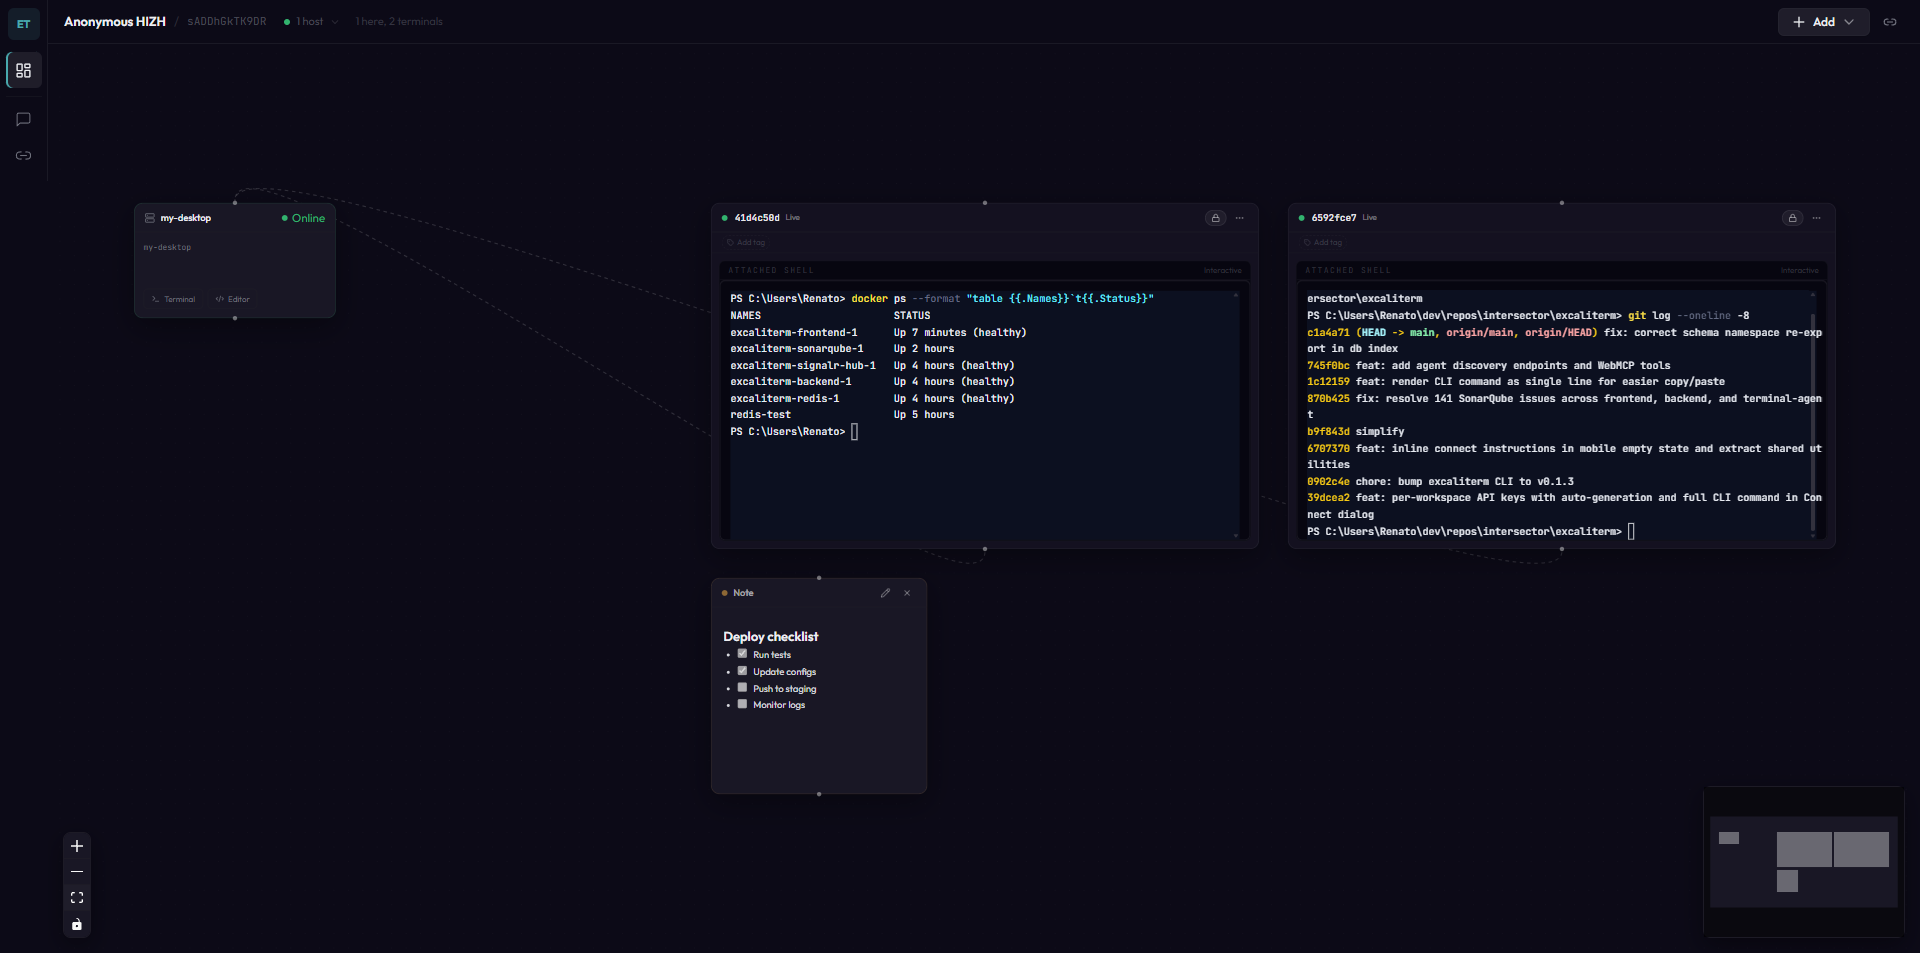
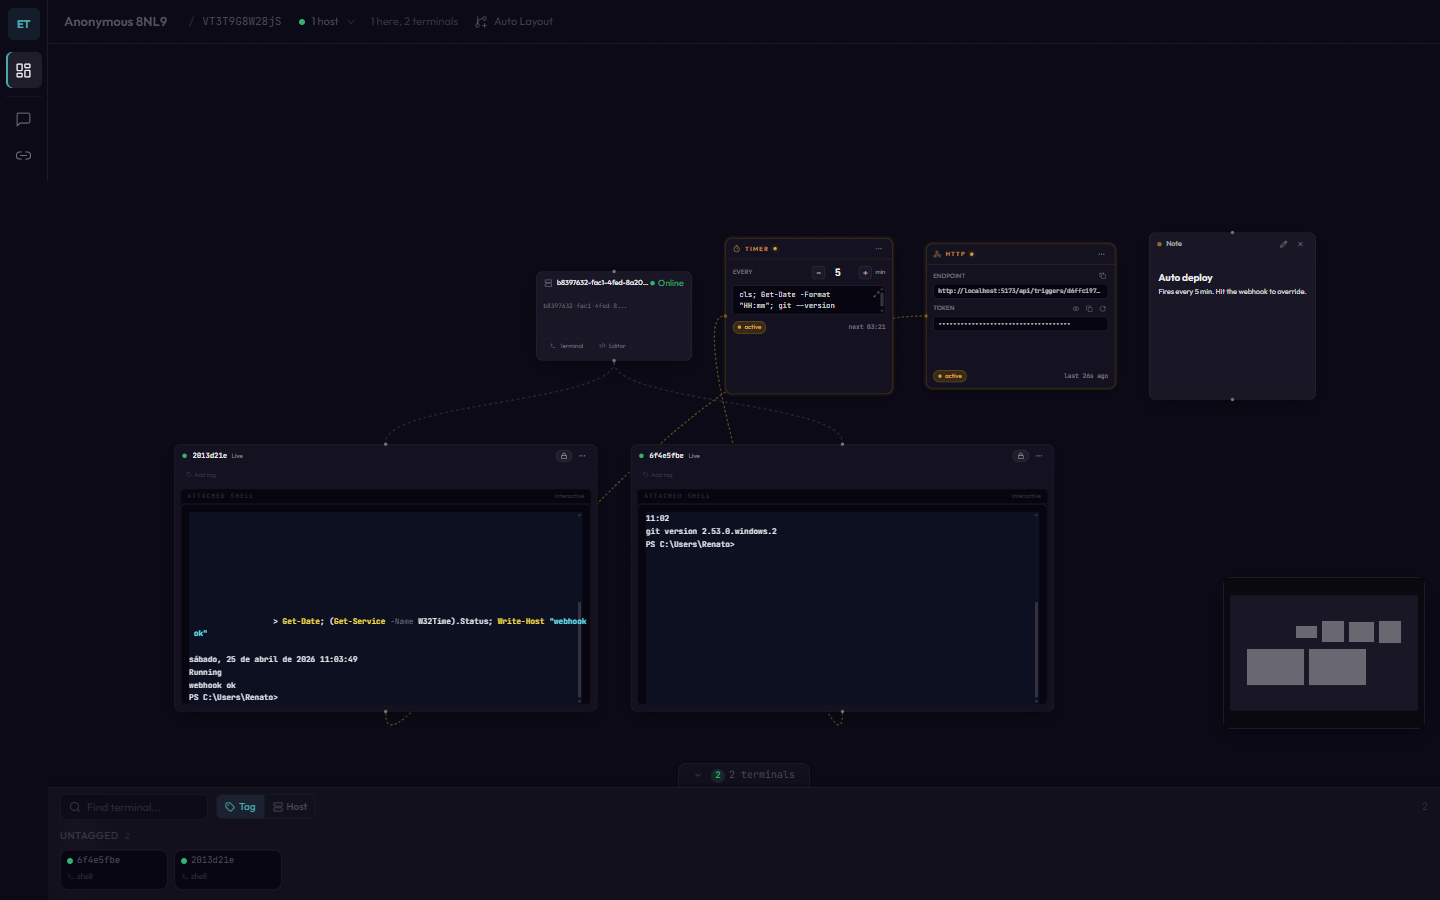
landing + docs: announce timer & HTTP triggers
- Hero shot retaken with both trigger types visible alongside live terminals; annotation dots updated.
- "AI & agent dashboards" use case rewritten to call out scheduled checks + webhook drive.
- "Automate from cron, CI, or a webhook" feature card replaces "Invite anyone with a URL" (already covered by the hero CTA).
- Adds "Timer & HTTP triggers" badge and "Webhook automation into the shell" comparison row.
- docs/api-reference.md gets full Triggers section (workspace CRUD + /rotate + public POST /:id/fire with status codes).
- docs/websocket-protocol.md documents the TriggerFired CanvasHub event.
- Reverts the simplify-pass transaction wrapper around the 3 trigger inserts — better-sqlite3 transactions are sync-only and rejected the async drizzle calls.

diff --git a/apps/frontend/src/components/LandingPage.tsx b/apps/frontend/src/components/LandingPage.tsx
@@ -14,6 +14,7 @@ import {
   FileCode,
   StickyNote,
   Server,
+  Zap,
 } from "lucide-react";
 import { toast } from "sonner";
 import { createWorkspace } from "@/lib/api-client";
@@ -128,9 +129,9 @@ export function LandingPage() {
             alt="Excaliterm workspace showing a connected host, live terminals, sticky notes, and a file editor on an infinite canvas"
             className="w-full"
           />
-          <AnnotationDot className="left-[10%] top-[18%]" label="Live terminal on another machine" side="right" />
-          <AnnotationDot className="left-[58%] top-[10%]" label="Sticky note visible to everyone" side="left" />
-          <AnnotationDot className="left-[72%] top-[62%]" label="Second collaborator types in real time" side="left" />
+          <AnnotationDot className="left-[43%] top-[34%]" label="Connected host on another machine" side="right" />
+          <AnnotationDot className="left-[71%] top-[32%]" label="Webhook fires a command on schedule" side="left" />
+          <AnnotationDot className="left-[28%] top-[64%]" label="Live shell streamed to everyone" side="right" />
         </div>
       </section>
 
@@ -161,7 +162,7 @@ export function LandingPage() {
           <UseCaseCard
             icon={<Bot />}
             title="AI & agent dashboards"
-            body="Connect long-running agents and Claude Code sessions as hosts. Watch them work, intervene when needed, and share the canvas with your team."
+            body="Connect long-running agents and Claude Code sessions as hosts — then schedule recurring checks or expose a webhook so external systems drive the shell directly. Watch them work, intervene when needed."
           />
         </div>
       </section>
@@ -185,8 +186,8 @@ export function LandingPage() {
             description="Prod, staging, your laptop side-by-side on an infinite canvas. Drag, zoom, tag — organize terminals like windows."
           />
           <FeatureCard
-            title="Invite anyone with a URL"
-            description="No accounts, no SSO, nothing to install on their side. Share the workspace link and they're in."
+            title="Automate from cron, CI, or a webhook"
+            description="Attach a timer trigger to run a prompt every N minutes, or expose an HTTP webhook URL with a secret token. External systems POST to it; the prompt lands in the terminal as if you typed it."
           />
           <FeatureCard
             title="See the GUI, not just the shell"
@@ -207,6 +208,7 @@ export function LandingPage() {
           <Badge icon={<History className="size-3.5" />} label="Persistent command history" />
           <Badge icon={<FileCode className="size-3.5" />} label="In-canvas file editor" />
           <Badge icon={<StickyNote className="size-3.5" />} label="Markdown sticky notes" />
+          <Badge icon={<Zap className="size-3.5" />} label="Timer & HTTP triggers" />
           <Badge icon={<Server className="size-3.5" />} label="Docker self-host" />
         </div>
       </section>
@@ -235,6 +237,7 @@ export function LandingPage() {
               <CompareRow feature="Spatial canvas & notes" a={false} b={false} c />
               <CompareRow feature="Persistent workspace & history" a={false} b={false} c />
               <CompareRow feature="Built-in chat beside shells" a={false} b c />
+              <CompareRow feature="Webhook automation into the shell" a={false} b={false} c />
               <CompareRow feature="Self-hostable (Docker)" a={false} b={false} c />
             </tbody>
           </table>

diff --git a/apps/backend/src/routes/triggers.ts b/apps/backend/src/routes/triggers.ts
@@ -149,11 +149,12 @@ triggers.post("/", async (c) => {
     createdAt: now,
   } as const;
 
-  await db.transaction(async (tx) => {
-    await tx.insert(schema.canvasNode).values(nodeRow);
-    await tx.insert(schema.trigger).values(triggerRow);
-    await tx.insert(schema.canvasEdge).values(edgeRow);
-  });
+  // better-sqlite3 transactions are sync-only and can't host async drizzle calls.
+  // Inserts run sequentially; better-sqlite3 is synchronous in practice so the
+  // window for orphan rows from a mid-flight crash is microscopic.
+  await db.insert(schema.canvasNode).values(nodeRow);
+  await db.insert(schema.trigger).values(triggerRow);
+  await db.insert(schema.canvasEdge).values(edgeRow);
 
   const response: CreateTriggerResponse = {
     trigger: toTriggerResponse(triggerRow),

diff --git a/docs/api-reference.md b/docs/api-reference.md
@@ -569,3 +569,133 @@ Example response:
   "message": "File tree will be proxied via SignalR in a future update"
 }
 ```
+
+## Triggers
+
+Triggers automate input to a terminal. Two types: `timer` (in-process scheduler fires a stored prompt every N minutes) and `http` (public webhook URL — caller POSTs the prompt). One of each type per terminal (enforced by a unique index on `(terminalNodeId, type)`).
+
+### `GET /w/:workspaceId/triggers`
+
+Lists every trigger in the workspace.
+
+```json
+{
+  "triggers": [
+    {
+      "id": "8e298a12-...",
+      "workspaceId": "1nm8pj3HLMfq",
+      "terminalNodeId": "3e774e60-...",
+      "terminalSessionId": "27085aa7-...",
+      "type": "timer",
+      "enabled": true,
+      "config": { "intervalMin": 5, "prompt": "git pull && pnpm test", "language": "shell" },
+      "lastFiredAt": "2026-04-25T00:42:46.000Z",
+      "lastError": null,
+      "createdAt": "2026-04-25T00:40:45.000Z",
+      "updatedAt": "2026-04-25T00:42:46.000Z"
+    }
+  ]
+}
+```
+
+### `POST /w/:workspaceId/triggers`
+
+Create a trigger attached to a terminal node. Inserts the trigger row, a canvas node (`nodeType: "trigger"`), and an edge from the terminal node — atomically in a single transaction.
+
+Body:
+
+```json
+{
+  "terminalNodeId": "3e774e60-...",
+  "type": "timer",
+  "config": { "intervalMin": 5, "prompt": "git pull", "language": "shell" }
+}
+```
+
+For `type: "http"`, the server generates `config.secret` automatically; you don't supply it. For `type: "timer"`, all `config` fields are optional and default to `{ intervalMin: 5, prompt: "", language: "shell" }`.
+
+Returns `201` with `{ trigger, canvasNode, canvasEdge }`. Trigger node default size is 300×280 for timer, 340×260 for http.
+
+Errors: `400` (missing `terminalNodeId`, unsupported `type`), `404` (terminal node not in workspace), `409` (a trigger of this type is already attached to this terminal).
+
+### `PATCH /w/:workspaceId/triggers/:id`
+
+Update `enabled` and (for timer triggers) `config`. HTTP triggers ignore `config` here — use `/rotate` to change the secret.
+
+Body (timer):
+
+```json
+{ "enabled": true, "config": { "intervalMin": 10, "prompt": "echo hi" } }
+```
+
+Body (http):
+
+```json
+{ "enabled": true }
+```
+
+Returns `{ trigger }`. For timer triggers, the in-process scheduler reschedules. Rejects enabling a timer with empty prompt (`400`).
+
+### `POST /w/:workspaceId/triggers/:id/rotate`
+
+HTTP triggers only. Generates a new random `secret`. The old secret immediately stops working. Returns the updated trigger with the new secret in `config.secret`.
+
+Errors: `400` (trigger isn't an HTTP trigger), `404` (not found in workspace).
+
+### `POST /w/:workspaceId/triggers/:id/fire`
+
+Manual fire for **timer triggers only**. Submits the trigger's stored prompt to the terminal immediately, regardless of the timer schedule and regardless of `enabled`. Returns `{ success: true }`.
+
+Errors: `400` (trigger is HTTP — use the public endpoint), `404`.
+
+### `DELETE /w/:workspaceId/triggers/:id`
+
+Unschedules the trigger, deletes its canvas node (cascading the edge via FK), and deletes the trigger row.
+
+## Public Trigger Endpoint
+
+Mounted **outside** workspace scope so external systems (CI runs, cron-job.org, Slack hooks, curl) can hit it directly.
+
+### `POST /api/triggers/:id/fire`
+
+Per-route rate limit: 60 requests / 60 s / IP. Independent of the global 100/min limiter so external traffic can't cap your UI.
+
+Headers:
+
+| header | required | notes |
+|---|---|---|
+| `X-Trigger-Token` | yes | Compared timing-safe against the trigger's `secret`. |
+| `Content-Type` | recommended | `application/json` |
+
+Body:
+
+```json
+{ "prompt": "echo hello from webhook" }
+```
+
+The `prompt` is sent to the terminal verbatim with a final `\r` appended (one Enter). Multi-line prompts are allowed; embedded `\n` characters are line-discipline Enter, so each line submits independently — use `;` (PowerShell/bash) or `&&` if you need a single statement.
+
+Success:
+
+```json
+{ "ok": true, "firedAt": "2026-04-25T13:27:02.594Z" }
+```
+
+| code | meaning |
+|---|---|
+| 200 | fired |
+| 400 | missing or empty `prompt` |
+| 401 | wrong/missing `X-Trigger-Token` |
+| 403 | trigger is paused (`enabled: false`) |
+| 404 | trigger id not found, or it's not an HTTP trigger (timer triggers are not exposed here) |
+| 429 | rate limit |
+| 502 | publish to terminal failed (host probably offline) |
+
+Example:
+
+```bash
+curl -X POST 'https://your-host/api/triggers/<id>/fire' \
+  -H 'X-Trigger-Token: <secret>' \
+  -H 'Content-Type: application/json' \
+  -d '{"prompt":"git pull && pnpm test"}'
+```

diff --git a/docs/websocket-protocol.md b/docs/websocket-protocol.md
@@ -117,6 +117,9 @@ When Redis is disabled in the hub, this flow breaks even if the browser can stil
 | `NodeMoved` | `{ nodeId, x, y, userId }` |
 | `NodeResized` | `{ nodeId, width, height, userId }` |
 | `NodeRemoved` | `{ nodeId, userId }` |
+| `TriggerFired` | `{ triggerId, terminalNodeId, terminalSessionId, firedAt, ok, error }` |
+
+`TriggerFired` is broadcast to every browser in the workspace whenever a trigger fires (timer-scheduled or HTTP-invoked). The frontend updates the trigger's `lastFiredAt`/`lastError` in cache and flashes the corresponding canvas node + edge. The hub forwards it from the Redis topic `trigger:fired` published by the backend's `executeTriggerWithPrompt` helper.
 
 ## Chat Hub
 
